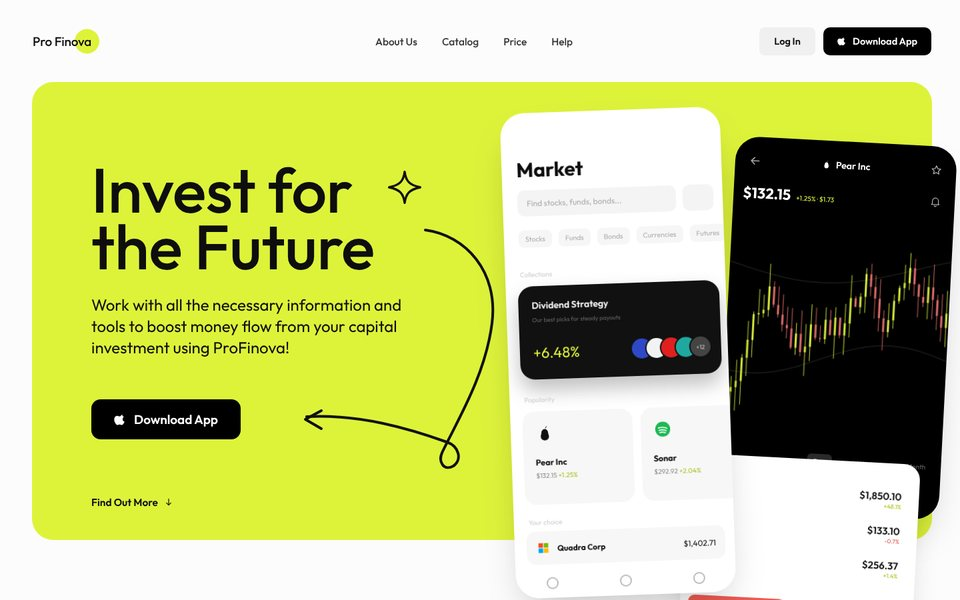
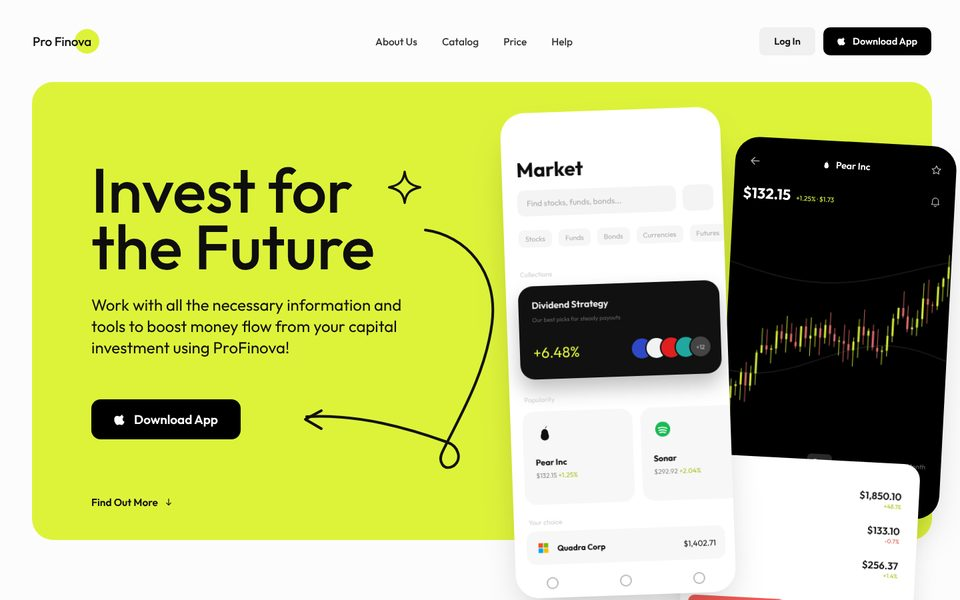
Study 06 round 2: transparent nav as in the reference (frosted on phones only), stonks-to-CTA spacing measured from the video
Claude-Session: https://claude.ai/code/session_014fY7WfygHxUwqSqfTcfTfp

Changed region(s): [[0.75, 0.42, 1.0, 0.69]]

diff --git a/studies/06-invest/style.css b/studies/06-invest/style.css
@@ -44,7 +44,6 @@ img, svg, canvas { display: block; }
 .nav__dl { display: inline-flex; align-items: center; gap: calc(8 * var(--u)); margin-left: calc(12 * var(--u)); height: calc(42 * var(--u)); padding: 0 calc(21 * var(--u)); border-radius: calc(10 * var(--u)); background: #000; color: #fff; font-size: calc(14.5 * var(--u)); font-weight: 600; transition: background-color .25s; }
 .nav__dl svg { width: calc(15 * var(--u)); height: calc(15 * var(--u)); }
 .nav__dl:hover { background: #2A2A2A; }
-.nav.is-stuck { background: rgba(252, 252, 252, .82); -webkit-backdrop-filter: blur(14px); backdrop-filter: blur(14px); }
 
 /* ---------------------------------------------------------------- hero */
 .hero { position: relative; height: calc(830 * var(--u)); margin-top: calc(-123 * var(--u)); padding-top: calc(123 * var(--u)); }
@@ -167,7 +166,7 @@ img, svg, canvas { display: block; }
 .pp__row em { font-style: normal; font-weight: 700; }
 
 /* ---------------------------------------------------------------- trade */
-.trade { position: relative; height: calc(1180 * var(--u)); margin-top: calc(180 * var(--u)); }
+.trade { position: relative; height: calc(945 * var(--u)); margin-top: calc(180 * var(--u)); }
 .trade__chart { position: absolute; left: calc(190 * var(--u)); top: 0; width: calc(430 * var(--u)); height: calc(270 * var(--u)); }
 .trade__lime { position: absolute; left: 0; top: 0; width: calc(372 * var(--u)); height: calc(222 * var(--u)); border-radius: calc(14 * var(--u)); background: var(--lime); rotate: -2deg; transform-origin: 0 0; }
 .tc { position: absolute; left: calc(28 * var(--u)); top: calc(40 * var(--u)); width: calc(398 * var(--u)); height: calc(222 * var(--u)); border-radius: calc(16 * var(--u)); background: #050505; rotate: 2deg; overflow: hidden; box-shadow: 0 calc(20 * var(--u)) calc(30 * var(--u)) rgba(0, 0, 0, .25); }
@@ -223,7 +222,7 @@ img, svg, canvas { display: block; }
 /* ---------------------------------------------------------------- phones and tablets */
 @media (max-width: 860px) {
   .frame { --u: calc(100cqi / 860); }
-  .nav { height: 72px; padding: 0 16px; }
+  .nav { height: 72px; padding: 0 16px; background: rgba(252, 252, 252, .86); -webkit-backdrop-filter: blur(12px); backdrop-filter: blur(12px); } /* phones only: the reference (desktop) keeps it transparent */
   .brand { font-size: 17px; }
   .nav__links, .nav__login { display: none; }
   .nav__dl { margin-left: auto; height: 42px; font-size: 14px; padding: 0 16px; }

diff --git a/studies/06-invest/main.js b/studies/06-invest/main.js
@@ -1,6 +1,6 @@
 /* Study 06 — motion layer: Lenis smooth scroll; the hero intro with the hand-drawn loop drawing itself and live
    candles; every hand-drawn line draws with the scroll; analytics rings sweep in; the pulse banner's phone rises and its
-   balance counts; tickers float and their prices tick; a sticky nav that frosts once the hero scrolls away.
+   balance counts; tickers float and their prices tick; a sticky, transparent nav (as in the reference).
    Without JS or with reduced motion the page is complete and still. */
 (function () {
   'use strict';
@@ -113,9 +113,7 @@
     }, 1600);
   } });
 
-  /* sticky nav frosts once the hero has scrolled */
-  var nav = $('.nav');
-  ST.create({ start: 120, end: 'max', onToggle: function (s) { nav.classList.toggle('is-stuck', s.isActive); } });
+  /* the nav stays transparent while the page passes under it, as in the reference (no frosted band) */
 
   /* ------------------------------------------------------------ get the most out */
   gsap.from('.most .h2', { y: 40, opacity: 0, duration: 1.1, ease: 'expo.out', scrollTrigger: { trigger: '.most', start: 'top 80%', once: true } });

diff --git a/studies/README.md b/studies/README.md
@@ -61,6 +61,9 @@ Also sent with the request (references to use in places later, not studies thems
   Pass `reduced` as the third argument for exact positions: Lenis smoothing offsets programmatic scrolls by ~15 px,
   while the reduced-motion page has the same resting layout without it. Every section was checked as a 50 % overlay.
 - Font: Outfit (closest to the reference's geometric face): hero 94u / 85, headings 47.5u / 48 (500), body 24–25u.
+- Round 2 (frame-matched): the nav stays transparent over the page like the reference (the frosted band is kept only on
+  phones, where the reference says nothing and text would collide); the trade section is 945u tall, so the stonks
+  paragraph sits 236 px above "Get the App for Free" as in the video (it was 467 px).
 - Placeholders: companies Pear Inc / Sonar / Quadra Corp / Cratebox Inc / Harbor S&P, partner marks drawn here
   (no bank or card-network logos), the illustrations are drawn SVG; the brand "Pro Finance" became "Pro Finova".
 - The lime circle in the trade section is cut by the page edge like in the video: `.frame { overflow-x: clip }`, so
